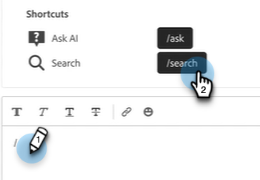
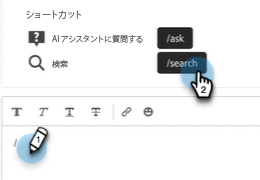
Updated by task 'AUTO_HANDOFF_1715950414393'  Changes for core/source commit https://git.corp.adobe.com/AdobeDocs/marketo.en/commit/be1ca409642fd5d81d341fbadaff38c268fe198f

Changed region(s): [[0.1846, 0.1944, 0.5538, 0.25], [0.0923, 0.0556, 0.3077, 0.1111], [0.1846, 0.3333, 0.3077, 0.3889]]

diff --git a/help/marketo/product-docs/demand-generation/dynamic-chat/live-chat/agent-inbox.md b/help/marketo/product-docs/demand-generation/dynamic-chat/live-chat/agent-inbox.md
@@ -1,38 +1,38 @@
 ---
-description: エージェントインボックス - Marketo ドキュメント – 製品ドキュメント
+description: エージェントのインボックス - Marketo ドキュメント - 製品ドキュメント
 title: エージェントのインボックス
 feature: Dynamic Chat
 exl-id: 65f13879-36d2-4a23-a029-271f5aea1229
 source-git-commit: 3788898496c50ebc3a5a8bf6adbd79a270024be7
-workflow-type: tm+mt
+workflow-type: ht
 source-wordcount: '550'
-ht-degree: 2%
+ht-degree: 100%
 
 ---
 
 # エージェントのインボックス {#agent-inbox}
 
-エージェントは、エージェントインボックス内にライブチャットをフィールド化します。 アクティブな会話に加えて、過去の会話、訪問者情報などを確認できます。
+エージェントは、エージェントインボックス内でライブチャットに対応します。アクティブな会話に加えて、過去の会話、訪問者情報などを確認できます。
 
 ![](assets/agent-inbox-1.png)
 
-## 可用性の切り替え {#availability-toggle}
+## 空き時間の切り替え {#availability-toggle}
 
-エージェントインボックス画面の右上に、ステータスを利用可能または利用不可に設定するオプションがあります。
+エージェントインボックス画面の右上に、ステータスを対応可能または対応不可に設定するオプションがあります。
 
 ![](assets/agent-inbox-2.png)
 
 >[!IMPORTANT]
 >
->**これは次を上書きします** この [ライブチャットの利用](/help/marketo/product-docs/demand-generation/dynamic-chat/setup-and-configuration/agent-settings.md#live-chat-availability){target="_blank"} エージェント設定でを確立しました。 ステータスは、元に戻すか、使用可能な次の時間ブロックに切り替えるまで保持されます。
+>**これにより、エージェント設定で行った[ライブチャットの空き時間](/help/marketo/product-docs/demand-generation/dynamic-chat/setup-and-configuration/agent-settings.md#live-chat-availability){target="_blank"}が上書きされます**。ステータスは、元に戻すか、空き時間の次のブロックに切り替わるまで保持されます。
 
 >[!NOTE]
 >
->ステータスを使用不可に設定しても、アクティブなチャットには影響しません。
+>ステータスを対応不可に設定しても、アクティブなチャットには影響しません。
 
 ## ライブチャット通知 {#live-chat-notifications}
 
-通知について詳しくは、 [ライブチャットの概要](/help/marketo/product-docs/demand-generation/dynamic-chat/live-chat/live-chat-overview.md#live-chat-notifications){target="_blank"}.
+通知について詳しくは、[ライブチャットの概要](/help/marketo/product-docs/demand-generation/dynamic-chat/live-chat/live-chat-overview.md#live-chat-notifications){target="_blank"}を参照してください。
 
 ## 会話 {#conversations}
 
@@ -42,17 +42,17 @@ ht-degree: 2%
 
 >[!NOTE]
 >
->自分や他のエージェントからの過去の（非アクティブな）会話は表示できますが、自分のアクティブな会話しか表示できません。
+>自分や他のエージェントからの過去の（非アクティブな）会話が表示されますが、表示できるのは自分のアクティブな会話のみです。
 
 ## 訪問者情報 {#visitor-information}
 
-エージェントインボックス画面の右側に、名前、役職、メールアドレス、電話番号、CRM ステータスが（上から下に）表示されます。 渡されない情報は、ダッシュ（–）として表示されます。
+エージェントインボックス画面の右側に、名前、役職、メールアドレス、電話番号、CRM ステータスが（上から下に）表示されます。渡されない情報は、ダッシュ（-）として表示されます。
 
 ![](assets/agent-inbox-5.png)
 
 ## セッションの終了 {#end-a-session}
 
-エージェントは、次のボタンをクリックするだけでセッションを手動で終了できます **セッションを終了** ボタンが訪問者情報の隣に表示されます。
+エージェントは、訪問者情報の横にある「**セッションを終了**」ボタンをクリックするだけで、セッションを手動で終了できます。
 
 ![](assets/agent-inbox-6.png)
 
@@ -60,39 +60,39 @@ ht-degree: 2%
 
 >[!NOTE]
 >
->この機能は、生成 AI の一部で、Dynamic Chatプライムサブスクリプションから利用できます。 詳しくは、Adobeアカウントチーム（アカウントマネージャー）にお問い合わせください。
+>この機能は生成 AI の一部で、Dynamic Chat Prime サブスクリプションから利用できます。詳しくは、アドビのアカウントチーム（担当のアカウントマネージャー）にお問い合わせください。
 
-生成 AI を活用したショートカット [応答ライブラリ](/help/marketo/product-docs/demand-generation/dynamic-chat/generative-ai/response-library.md)は、訪問者とチャットする際に、その場で支援を得るための優れた方法です。 スラッシュ（`/`）を選択し、 `ask` または `search`.
+生成 AI [応答ライブラリ](/help/marketo/product-docs/demand-generation/dynamic-chat/generative-ai/response-library.md)を活用したショートカットは、訪問者とチャットする際に、その場でヘルプを得るための優れた方法です。テキストボックスにスラッシュ（`/`）を入力し、`ask` または `search` を選択するだけです。
 
 ![](assets/agent-inbox-7.png)
 
-**質問する** は、質問への回答のヘルプです。
+**尋ねる**&#x200B;は、質問への回答に関するヘルプを求めます。
 
-1. 入力または選択 `/ask` テキストボックスに、 質問を入力し、キーボードで Enter キーを押します。
+1. テキストボックスに「`/ask`」を入力または選択します。質問を入力し、キーボードの Enter キーを押します。
 
    ![](assets/agent-inbox-8.png)
 
-1. 回答が表示されます。 コピーアイコンをクリックして、テキストボックスに貼り付けます。 テキストは、訪問者に送信する前に編集できます。
+1. 回答が表示されます。コピーアイコンをクリックすると、テキストボックスに貼り付けることができます。訪問者に送信する前にテキストを編集できます。
 
    ![](assets/agent-inbox-9.png)
 
-**検索** は、特定のテキストに関連するページの検索に役立ちます。
+**検索**&#x200B;は、特定のテキストに関連するページの検索に役立ちます。
 
-1. 入力または選択 `/search` テキストボックスに、
+1. テキストボックスに「`/search`」を入力または選択します。
 
    ![](assets/agent-inbox-10.png)
 
-1. 検索対象を入力し、キーボードで Enter キーを押します。
+1. 検索対象を入力し、キーボードの Enter キーを押します。
 
    ![](assets/agent-inbox-11.png)
 
-1. 該当するリンクが表示されます。 コピーアイコンをクリックすると、テキストボックスに貼り付けることができます。 情報を訪問者に送信する前に編集を行うことができます。
+1. 該当するリンクが表示されます。コピーアイコンをクリックすると、テキストボックスに貼り付けることができます。情報を訪問者に送信する前に編集を行うことができます。
 
    ![](assets/agent-inbox-12.png)
 
 ## アクティビティ履歴 {#activity-history}
 
-訪問者情報の下には、アクティビティ履歴があります。 アクティビティのタイプや日付を表示したり、チャットトランスクリプトを表示したりできます。
+訪問者情報の下には、アクティビティ履歴があります。アクティビティのタイプや日付を表示したり、チャットトランスクリプトを表示したりできます。
 
 ![](assets/agent-inbox-13.png)
 
@@ -108,7 +108,7 @@ ht-degree: 2%
 
    ![](assets/agent-inbox-14.png)
 
-1. 目的のエージェントカレンダーを選択し、 **送信**.
+1. 目的のエージェントカレンダーを選択し、「**送信**」をクリックします。
 
    ![](assets/agent-inbox-15.png)
 
@@ -120,12 +120,12 @@ ht-degree: 2%
 
 >[!NOTE]
 >
->この機能は、生成 AI の一部で、Dynamic Chatプライムサブスクリプションから利用できます。 詳しくは、Adobeアカウントチーム（アカウントマネージャー）にお問い合わせください。
+>この機能は生成 AI の一部で、Dynamic Chat Prime サブスクリプションから利用できます。詳しくは、アドビのアカウントチーム（担当のアカウントマネージャー）にお問い合わせください。
 
-会話の概要では、訪問者が興味を示したトピックなど、概要の概要をリアルタイムで生成します。 すべてのチャット画面の右下に表示されます。
+会話の概要では、訪問者が興味を示したトピックなどの簡単な概要をリアルタイムで生成します。すべてのチャット画面の右下に表示されます。
 
 ![](assets/agent-inbox-17.png)
 
 >[!NOTE]
 >
->また、完了した会話の概要は、Marketo Engageデータベース内の訪問者のユーザーレコードのアクティビティログでも確認できます。
+>また、完了した会話の概要は、Marketo Engage データベース内の訪問者の個人レコードのアクティビティログでも確認できます。

diff --git a/help/marketo/product-docs/demand-generation/events/interactive-webinars/user-and-license-management.md b/help/marketo/product-docs/demand-generation/events/interactive-webinars/user-and-license-management.md
@@ -4,9 +4,9 @@ title: ユーザーとライセンスの管理
 exl-id: 1fee628b-e9f3-46ab-b993-f2d09fe5e183
 feature: Interactive Webinars
 source-git-commit: 0ab3b8075923f58a9546acff8039d67126f22bf3
-workflow-type: tm+mt
+workflow-type: ht
 source-wordcount: '703'
-ht-degree: 57%
+ht-degree: 100%
 
 ---
 
@@ -52,7 +52,7 @@ ht-degree: 57%
 
 ## ライセンス使用状況 {#license-usage}
 
-インタラクティブウェビナーでは、Adobe Connectを使用してイベントを作成するための特定のライセンスが提供されます。 ライセンスが追加されるたびに、新しいライセンス使用状況ボックスが表示されます。Marketo 管理者は、以下の手順に従って、ライセンスを表示（編集ではなく）できます。アドビのアカウントチーム（担当のアカウントマネージャー）に問い合わせて、追加のライセンスを取得します。
+インタラクティブウェビナーでは、Adobe Connect を活用してイベントを作成するための特定のライセンスを提供します。ライセンスが追加されるたびに、新しいライセンス使用状況ボックスが表示されます。Marketo 管理者は、以下の手順に従って、ライセンスを表示（編集ではなく）できます。アドビのアカウントチーム（担当のアカウントマネージャー）に問い合わせて、追加のライセンスを取得します。
 
 1. 「**管理者**」領域に移動します。
 
@@ -110,12 +110,12 @@ ht-degree: 57%
 
 ## ユーザアクセス {#user-access}
 
-インタラクティブウェビナーには、Marketo Engageユーザーにインタラクティブウェビナーを作成および配信する権限を付与して、使用を規制する機能があります。 ただし、インタラクティブウェビナーユーザー（またはユーザー以外）は、他のユーザーが作成したインタラクティブウェビナーイベントプログラムに対する読み取り/編集アクセス権を引き続き持つことができます。
+インタラクティブウェビナーには、Marketo Engage ユーザにインタラクティブウェビナーを作成および配信するための権限を付与して、使用を規制する機能があります。ただし、インタラクティブウェビナーユーザ（またはユーザ以外）は、他のユーザが作成したインタラクティブウェビナーイベントプログラムへの読み取り／編集アクセス権を引き続き持つことができます。
 
-インタラクティブウェビナーの権限を付与され、特定のインタラクティブウェビナーイベントプログラムの所有者であるMarketo ユーザーは、そのプログラムに関連するすべてのインタラクティブウェビナー機能を実行できます。 これには、プログラムの作成、アクセス、変更、複製、移動、削除などが含まれます。 ただし、そのユーザーがインタラクティブウェビナーユーザーでなくなった場合、プログラムの所有者はプログラムにアクセスして移動できますが、他の機能は実行できません。
+インタラクティブウェビナーの権限が付与され、特定のインタラクティブウェビナーイベントプログラムの所有者である Marketo ユーザは、このプログラムに関連するすべてのインタラクティブウェビナー機能を実行できます。これには、プログラムの作成、アクセス、クローン作製、移動、削除が含まれます。ただし、そのユーザがインタラクティブウェビナーユーザでなくなった場合、プログラムの所有者はプログラムにアクセスして移動することはできますが、他の機能は実行できません。
 
-インタラクティブウェビナーの権限を付与されたMarketo ユーザー。次のようなユーザーです _ではない_ 特定のインタラクティブウェビナーイベントプログラムの所有者は、それらのプログラムに対して限られた機能を実行できます。 Marketoの管理者以外のユーザーはプログラムにアクセスしてクローンを作成できますが、インタラクティブウェビナーの権限がある場合は、他の機能を実行できません。 ただし、Marketo管理者ユーザーは例外です _遺言_ プログラムのアクセス、変更、複製、移動、削除などのすべての機能を実行できる（インタラクティブウェビナーの権限がある場合）。 Marketoの管理者および管理者以外のユーザーに対してこの権限が取り消されると、インタラクティブウェビナーイベントプログラムにのみアクセスできるようになり、他の機能は実行できなくなります。
+インタラクティブウェビナーの権限を付与された、特定のインタラクティブウェビナーイベントプログラムの所有者では&#x200B;_ない_ Marketo ユーザは、それらのプログラムに対して限定的な機能を実行できます。Marketo 管理者以外のユーザはプログラムにアクセスしてクローンを作成できますが、インタラクティブウェビナーに関する権限を持っている場合は、他の機能を実行できません。ただし、Marketo 管理者ユーザは、プログラムのアクセス、変更、クローン作成、移動、削除などのすべての機能を実行できる&#x200B;_ようになります_（インタラクティブウェビナーに関する権限を持っている場合）。Marketo 管理者および管理者以外のユーザに対してこの権限が取り消されると、それらのユーザはインタラクティブウェビナーイベントプログラムにのみアクセス可能となり、他の機能は実行できなくなります。
 
-アクションにつながる関数の制限は、灰色表示のアクションボタンとホバーメッセージで示されます。 グレー表示されているアクションボタンの例には、「ウェビナーのデザイン」や「ウェビナーを開始」などがあります。 アクションを起こさない関数の場合は、制限を強調表示するメッセージが表示されます。 以下の例を参照してください。
+アクションにつながる機能の制限は、グレー表示のアクションボタンとホバーメッセージで示されます。グレー表示されているアクションボタンの例には、「ウェビナーをデザイン」や「ウェビナーを開始」などがあります。アクションにつながらない機能の場合は、制限を強調表示するメッセージが表示されます。以下の例を参照してください。
 
 ![](assets/user-and-license-management-12.png)

diff --git a/help/marketo/product-docs/demand-generation/dynamic-chat/automated-chat/stream-designer-old.md b/help/marketo/product-docs/demand-generation/dynamic-chat/automated-chat/stream-designer-old.md
@@ -5,7 +5,7 @@ hide: true
 hidefromtoc: true
 feature: Dynamic Chat
 source-git-commit: 3788898496c50ebc3a5a8bf6adbd79a270024be7
-workflow-type: tm+mt
+workflow-type: ht
 source-wordcount: '1128'
 ht-degree: 100%
 
